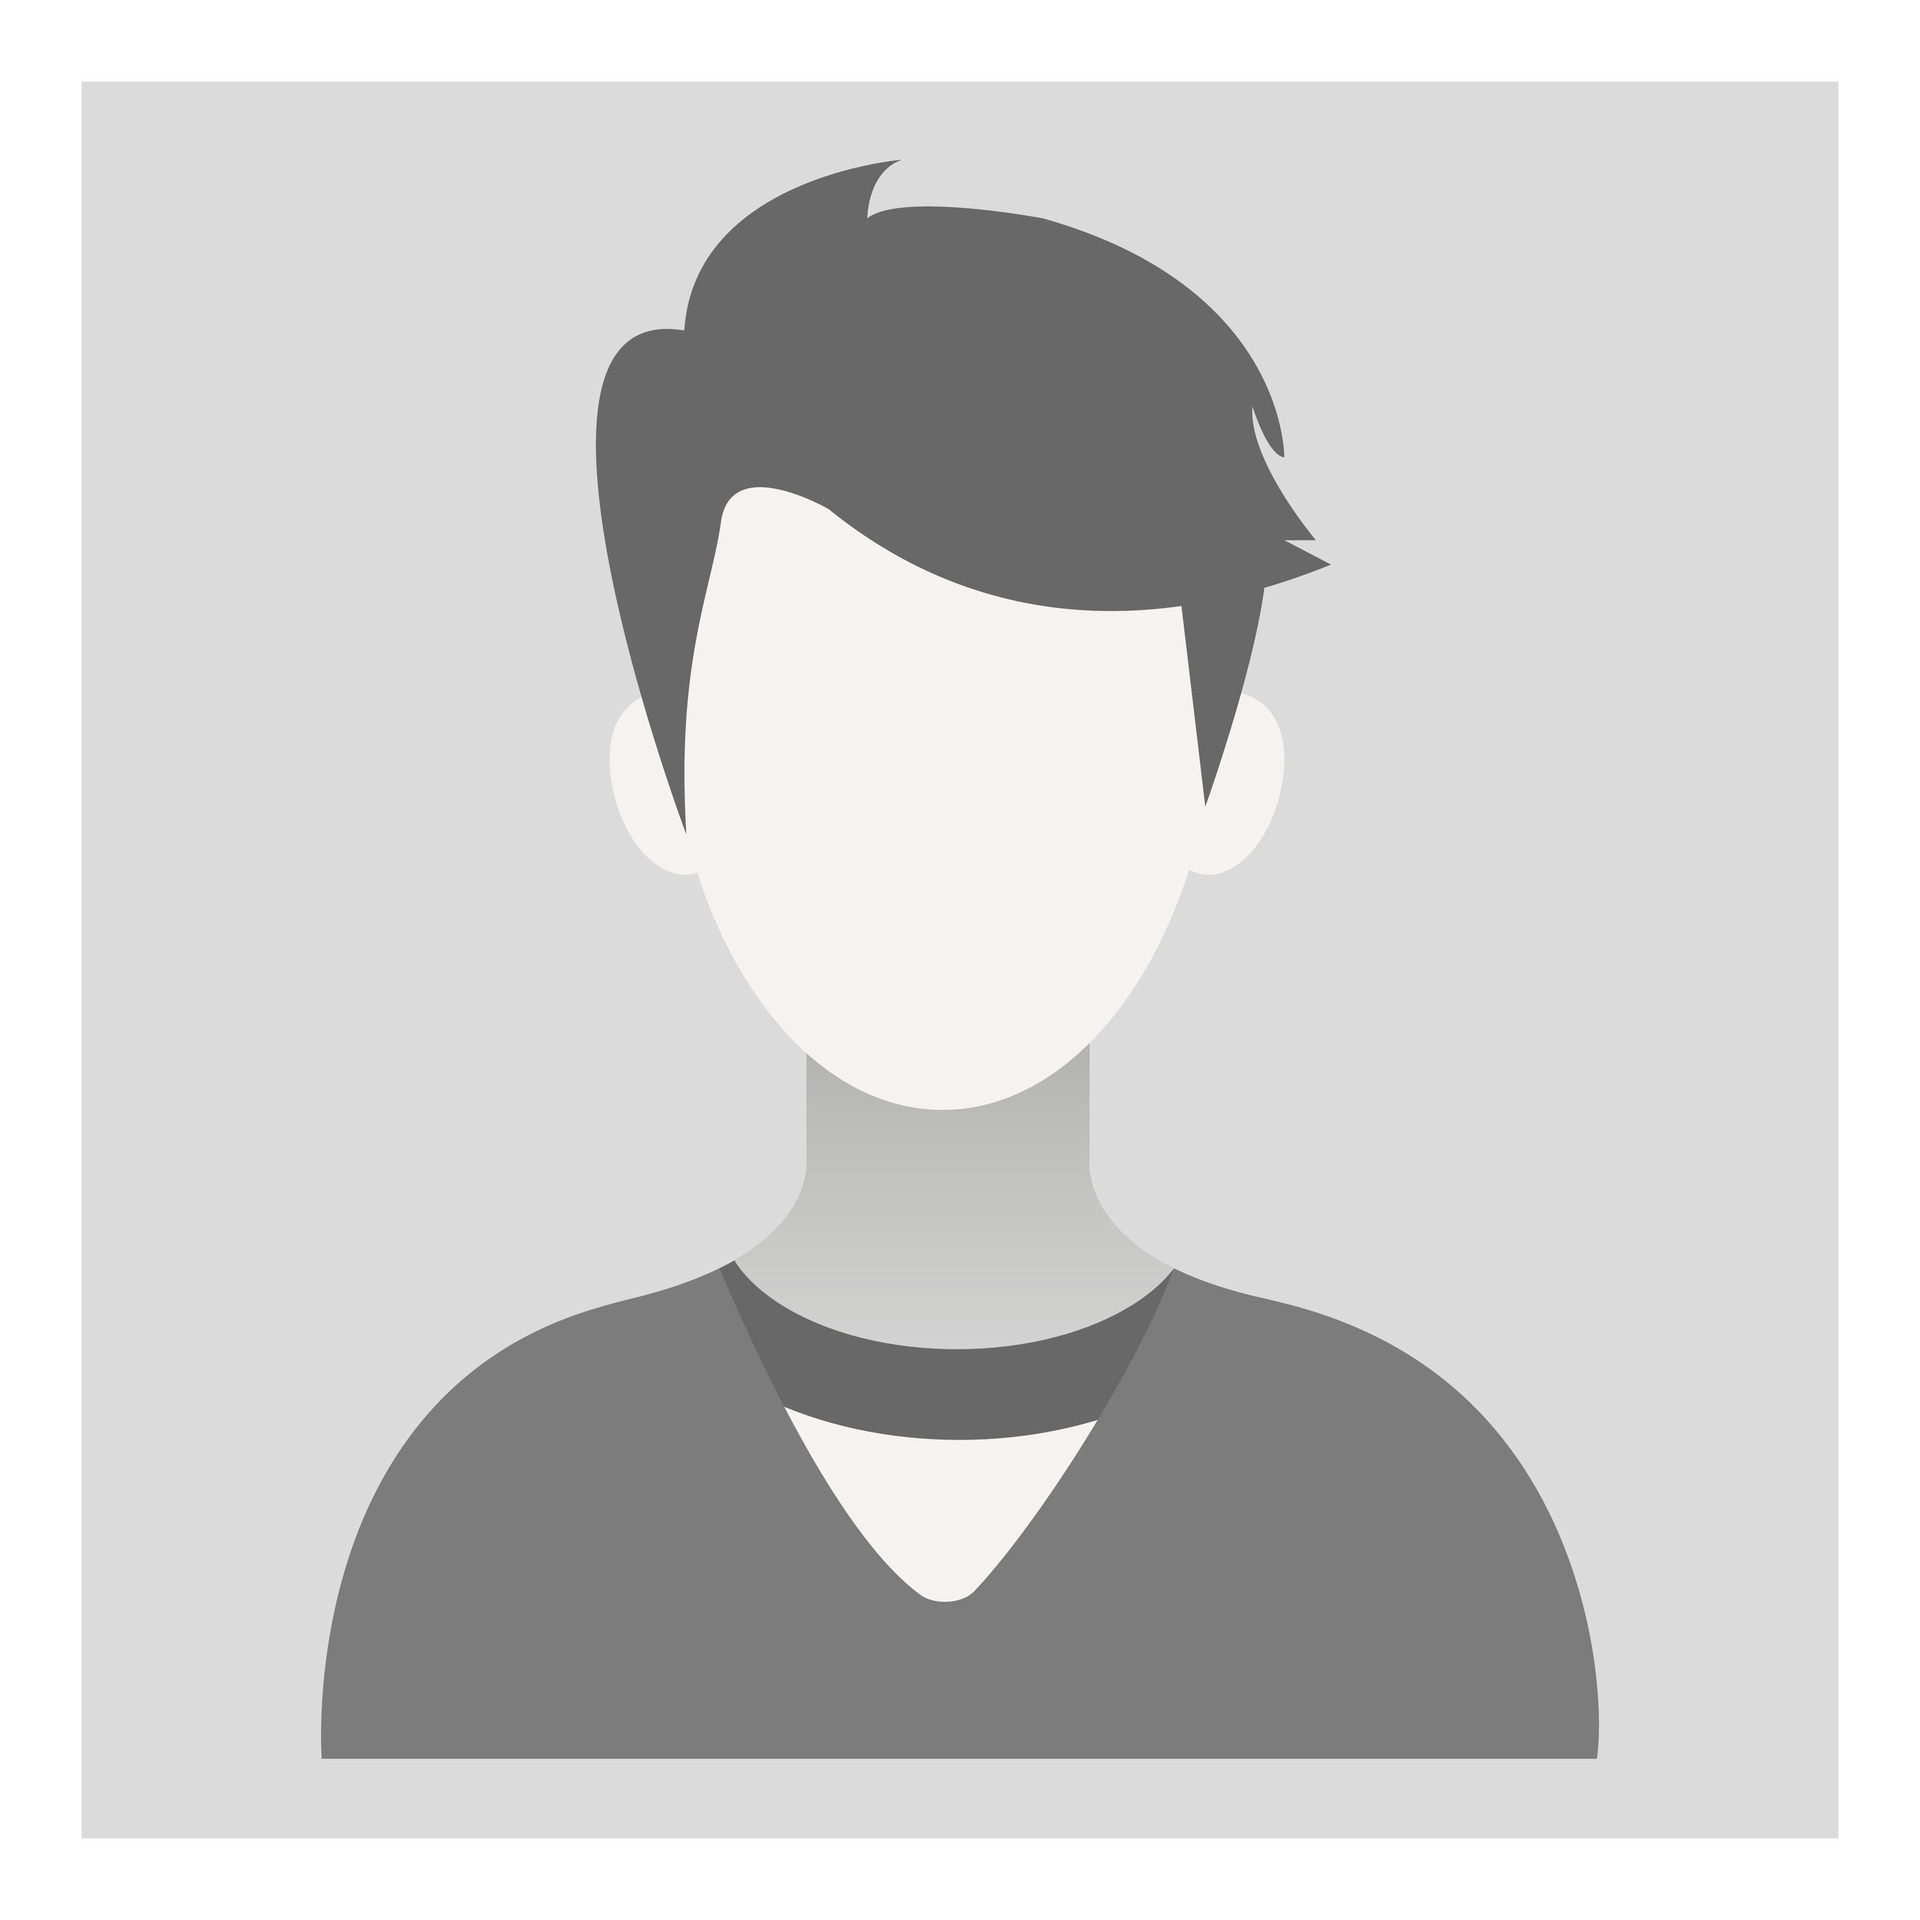
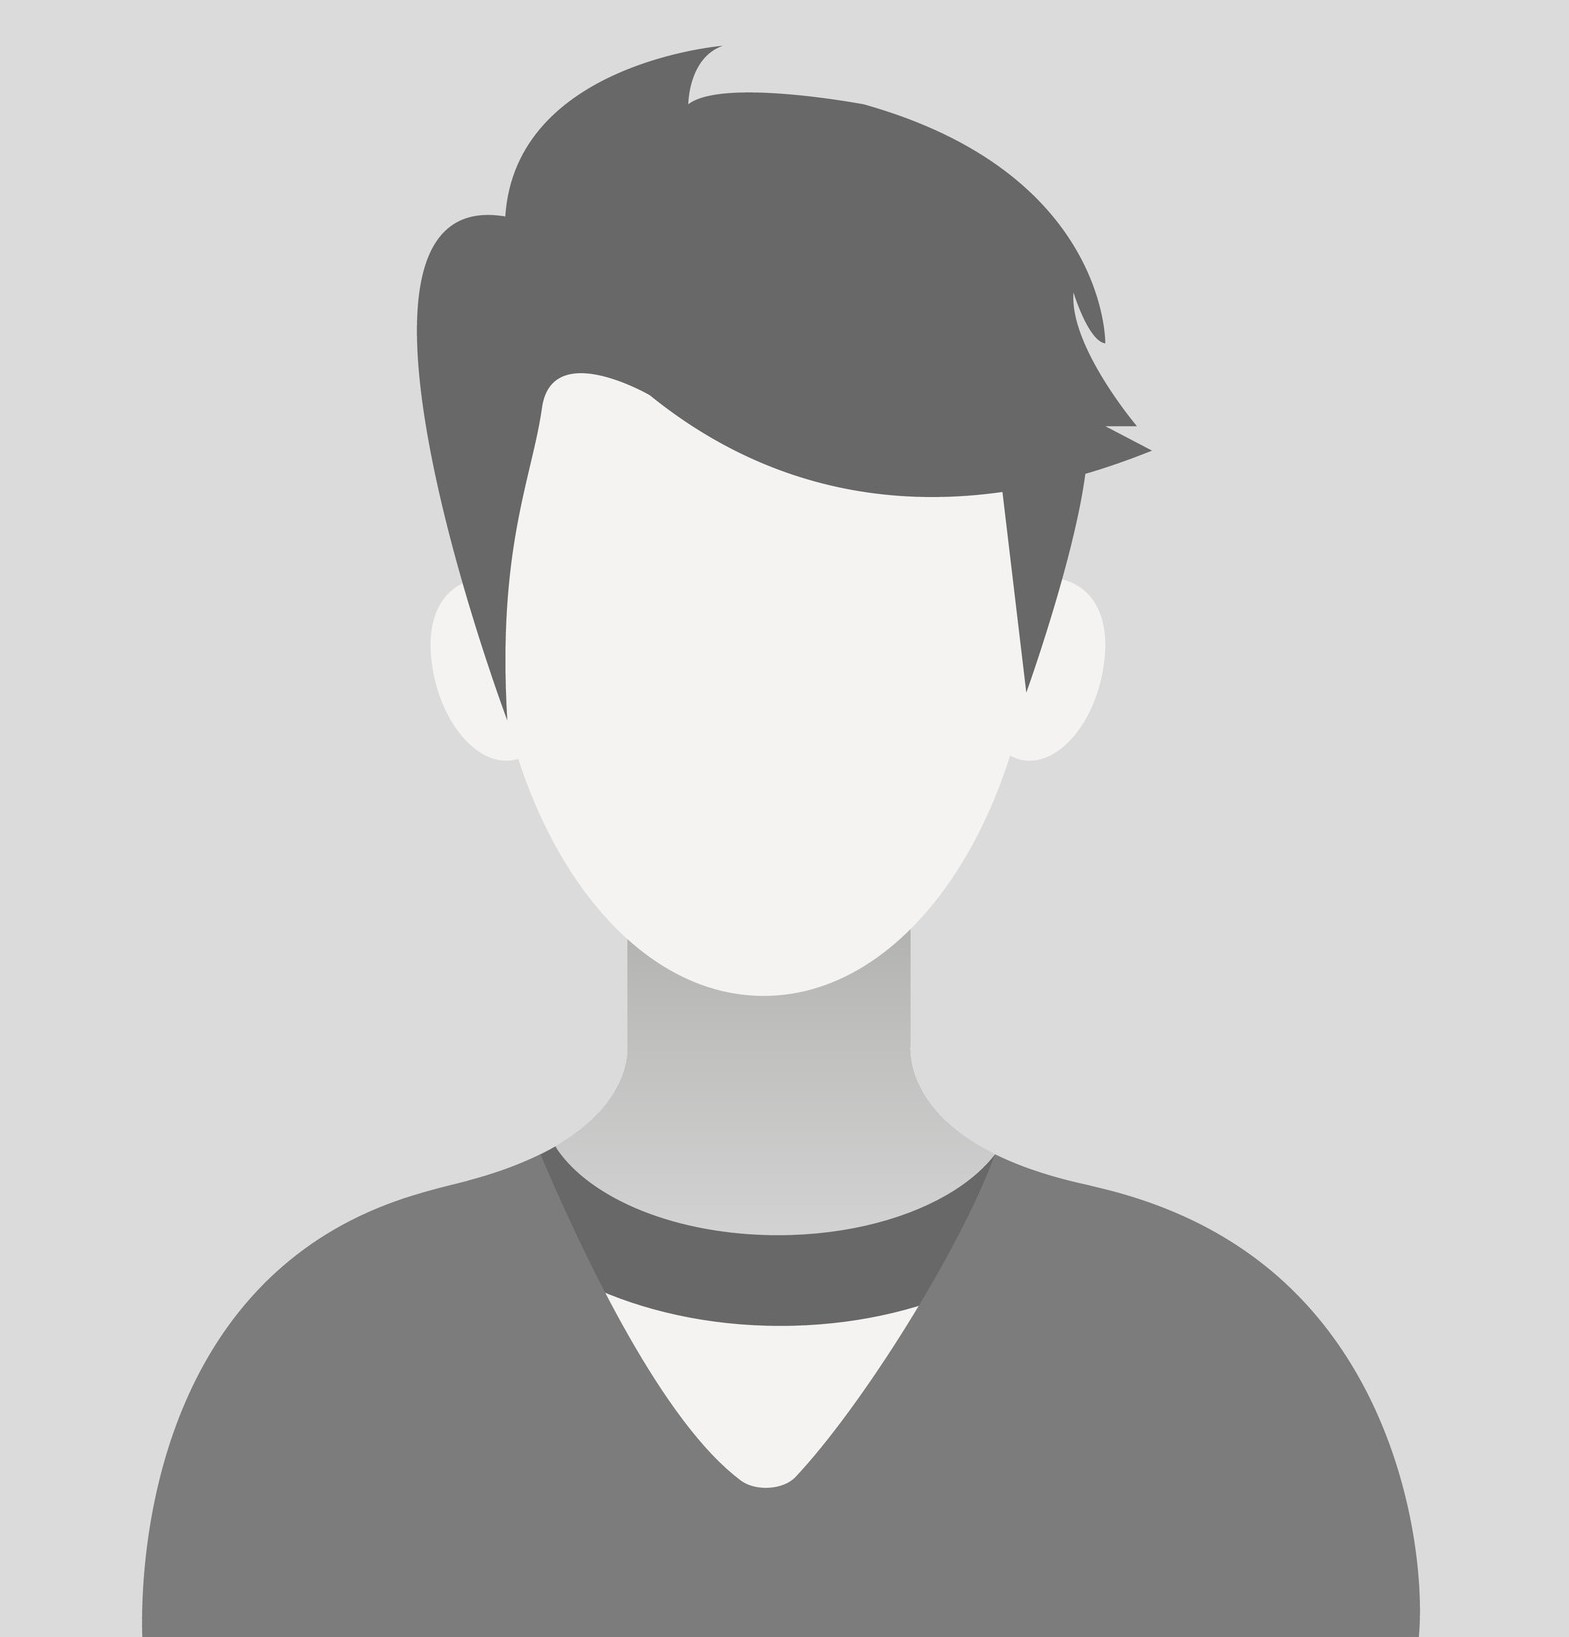
feat: Refactor Google Map navigation and update profile photo asset

diff --git a/lib/features/home/drawer/widgets/google_map_page.dart b/lib/features/home/drawer/widgets/google_map_page.dart
@@ -2,14 +2,14 @@ import 'package:flutter/material.dart';
 import 'package:live_tracking/features/home/drawer/custom_drawer.dart';
 import 'package:live_tracking/features/home/widgets/google_map_body.dart';
 
-class GoogleMapView extends StatefulWidget {
-  const GoogleMapView({super.key});
+class GoogleMapAppbar extends StatefulWidget {
+  const GoogleMapAppbar({super.key});
 
   @override
-  State<GoogleMapView> createState() => _GoogleMapViewState();
+  State<GoogleMapAppbar> createState() => _GoogleMapAppbarState();
 }
 
-class _GoogleMapViewState extends State<GoogleMapView> {
+class _GoogleMapAppbarState extends State<GoogleMapAppbar> {
   GlobalKey<ScaffoldState> ScaffoldKey = GlobalKey();
   @override
   Widget build(BuildContext context) {
@@ -75,8 +75,8 @@ class CustomAppbar extends StatelessWidget implements PreferredSizeWidget{
         Padding(
           padding: const EdgeInsets.only(right: 16),
           child: CircleAvatar(
-            radius: 18,
-            backgroundImage: AssetImage("assets/images/splash1.png"),
+            radius: 22,
+            backgroundImage: AssetImage("assets/images/profilePhoto.jpg"),
             backgroundColor: Colors.white,
           ),
         ),

diff --git a/lib/core/utils/app_router.dart b/lib/core/utils/app_router.dart
@@ -1,13 +1,13 @@
 import 'package:go_router/go_router.dart';
 import 'package:live_tracking/features/auth/login/login_page_view.dart';
 import 'package:live_tracking/features/auth/login/signup/signup_page_view.dart';
-import 'package:live_tracking/features/home/google_map_view.dart';
+import 'package:live_tracking/features/home/google_map_home_page.dart';
 import 'package:live_tracking/features/splash/views/splash_view.dart';
 
 abstract class AppRouter {
   static const kSplashView = '/';
   static const kLoginPageView = '/loginPageView';
-  static const kGoogleMapView = '/googleMapView';
+  static const kGoogleMapHomePage = '/googleMapView';
   static const kSignupPageView = '/signupPageView';
 
   static final router = GoRouter(
@@ -24,8 +24,8 @@ abstract class AppRouter {
       ),
 
       GoRoute(
-        path: kGoogleMapView,
-        builder: (context, state) => const GoogleMapView(),
+        path: kGoogleMapHomePage,
+        builder: (context, state) => const GoogleMapHomePage(),
       ),
 
       GoRoute(

diff --git a/lib/features/auth/login/signup/widgets/signup_page_body.dart b/lib/features/auth/login/signup/widgets/signup_page_body.dart
@@ -2,7 +2,6 @@ import 'package:flutter/material.dart';
 import 'package:go_router/go_router.dart';
 import 'package:live_tracking/core/utils/app_router.dart';
 import 'package:live_tracking/core/utils/assets.dart';
-import 'package:live_tracking/core/utils/styles.dart';
 import 'package:live_tracking/features/auth/login/widgets/custom_account_option.dart';
 import 'package:live_tracking/features/auth/login/widgets/custom_button.dart';
 import 'package:live_tracking/features/auth/login/widgets/custom_text_feild_head.dart';
@@ -157,7 +156,7 @@ class _SignupPageBodyState extends State<SignupPageBody> {
         });
 
         if (email == "test@test.com" && password == "123456") {
-          GoRouter.of(context).go(AppRouter.kGoogleMapView);
+          GoRouter.of(context).go(AppRouter.kGoogleMapHomePage);
         } else {
           ScaffoldMessenger.of(context).showSnackBar(
             const SnackBar(content: Text('Invalid email or password')),

diff --git a/lib/features/auth/login/widgets/login_page_body.dart b/lib/features/auth/login/widgets/login_page_body.dart
@@ -122,7 +122,7 @@ class _LoginPageBodyState extends State<LoginPageBody> {
                   child: CustomButton(
                     buttonText: 'Sign In',
                     onTap: () {
-                      GoRouter.of(context).go(AppRouter.kGoogleMapView);
+                      GoRouter.of(context).go(AppRouter.kGoogleMapHomePage);
                     },
                   ),
                 ),
@@ -149,7 +149,7 @@ class _LoginPageBodyState extends State<LoginPageBody> {
         });
 
         if (email == "test@test.com" && password == "123456") {
-          GoRouter.of(context).go(AppRouter.kGoogleMapView);
+          GoRouter.of(context).go(AppRouter.kGoogleMapHomePage);
         } else {
           ScaffoldMessenger.of(context).showSnackBar(
             const SnackBar(content: Text('Invalid email or password')),

diff --git a/lib/features/home/drawer/widgets/drawer_header.dart b/lib/features/home/drawer/widgets/drawer_header.dart
@@ -36,14 +36,14 @@ class DrawerHeaderInfo extends StatelessWidget {
               ),
             ),
             child: Container(
-              width: 120,   // ضعف الـ radius
+              width: 120,  
               height: 120,
               decoration: BoxDecoration(
                 shape: BoxShape.circle,
                 border: Border.all(color: Colors.black.withOpacity(0.2), width: 1),
                 image: DecorationImage(
-                  image: AssetImage(AssetsData.profile),
-                  fit: BoxFit.fill, // يحافظ على نسب الصورة ويملأ الدائرة
+                  image: AssetImage(AssetsData.profilephoto),
+                  fit: BoxFit.fill,
                 ),
               ),
             ),

diff --git a/lib/features/home/google_map_home_page.dart b/lib/features/home/google_map_home_page.dart
@@ -1,0 +1,15 @@
+import 'package:flutter/material.dart';
+import 'package:live_tracking/features/home/drawer/widgets/google_map_page.dart';
+
+class GoogleMapHomePage extends StatelessWidget {
+  const GoogleMapHomePage({super.key});
+
+  @override
+  Widget build(BuildContext context) {
+    return Column(
+      children: [
+        GoogleMapAppbar(),
+      ],
+    );
+  }
+}

diff --git a/lib/features/home/drawer/widgets/custom_logout_button.dart b/lib/features/home/drawer/widgets/custom_logout_button.dart
@@ -5,9 +5,7 @@ class CustomLogoutButton extends StatelessWidget {
     super.key,
     required this.theme,
   });
-
   final ThemeData theme;
-
   @override
   Widget build(BuildContext context) {
     return Row(
